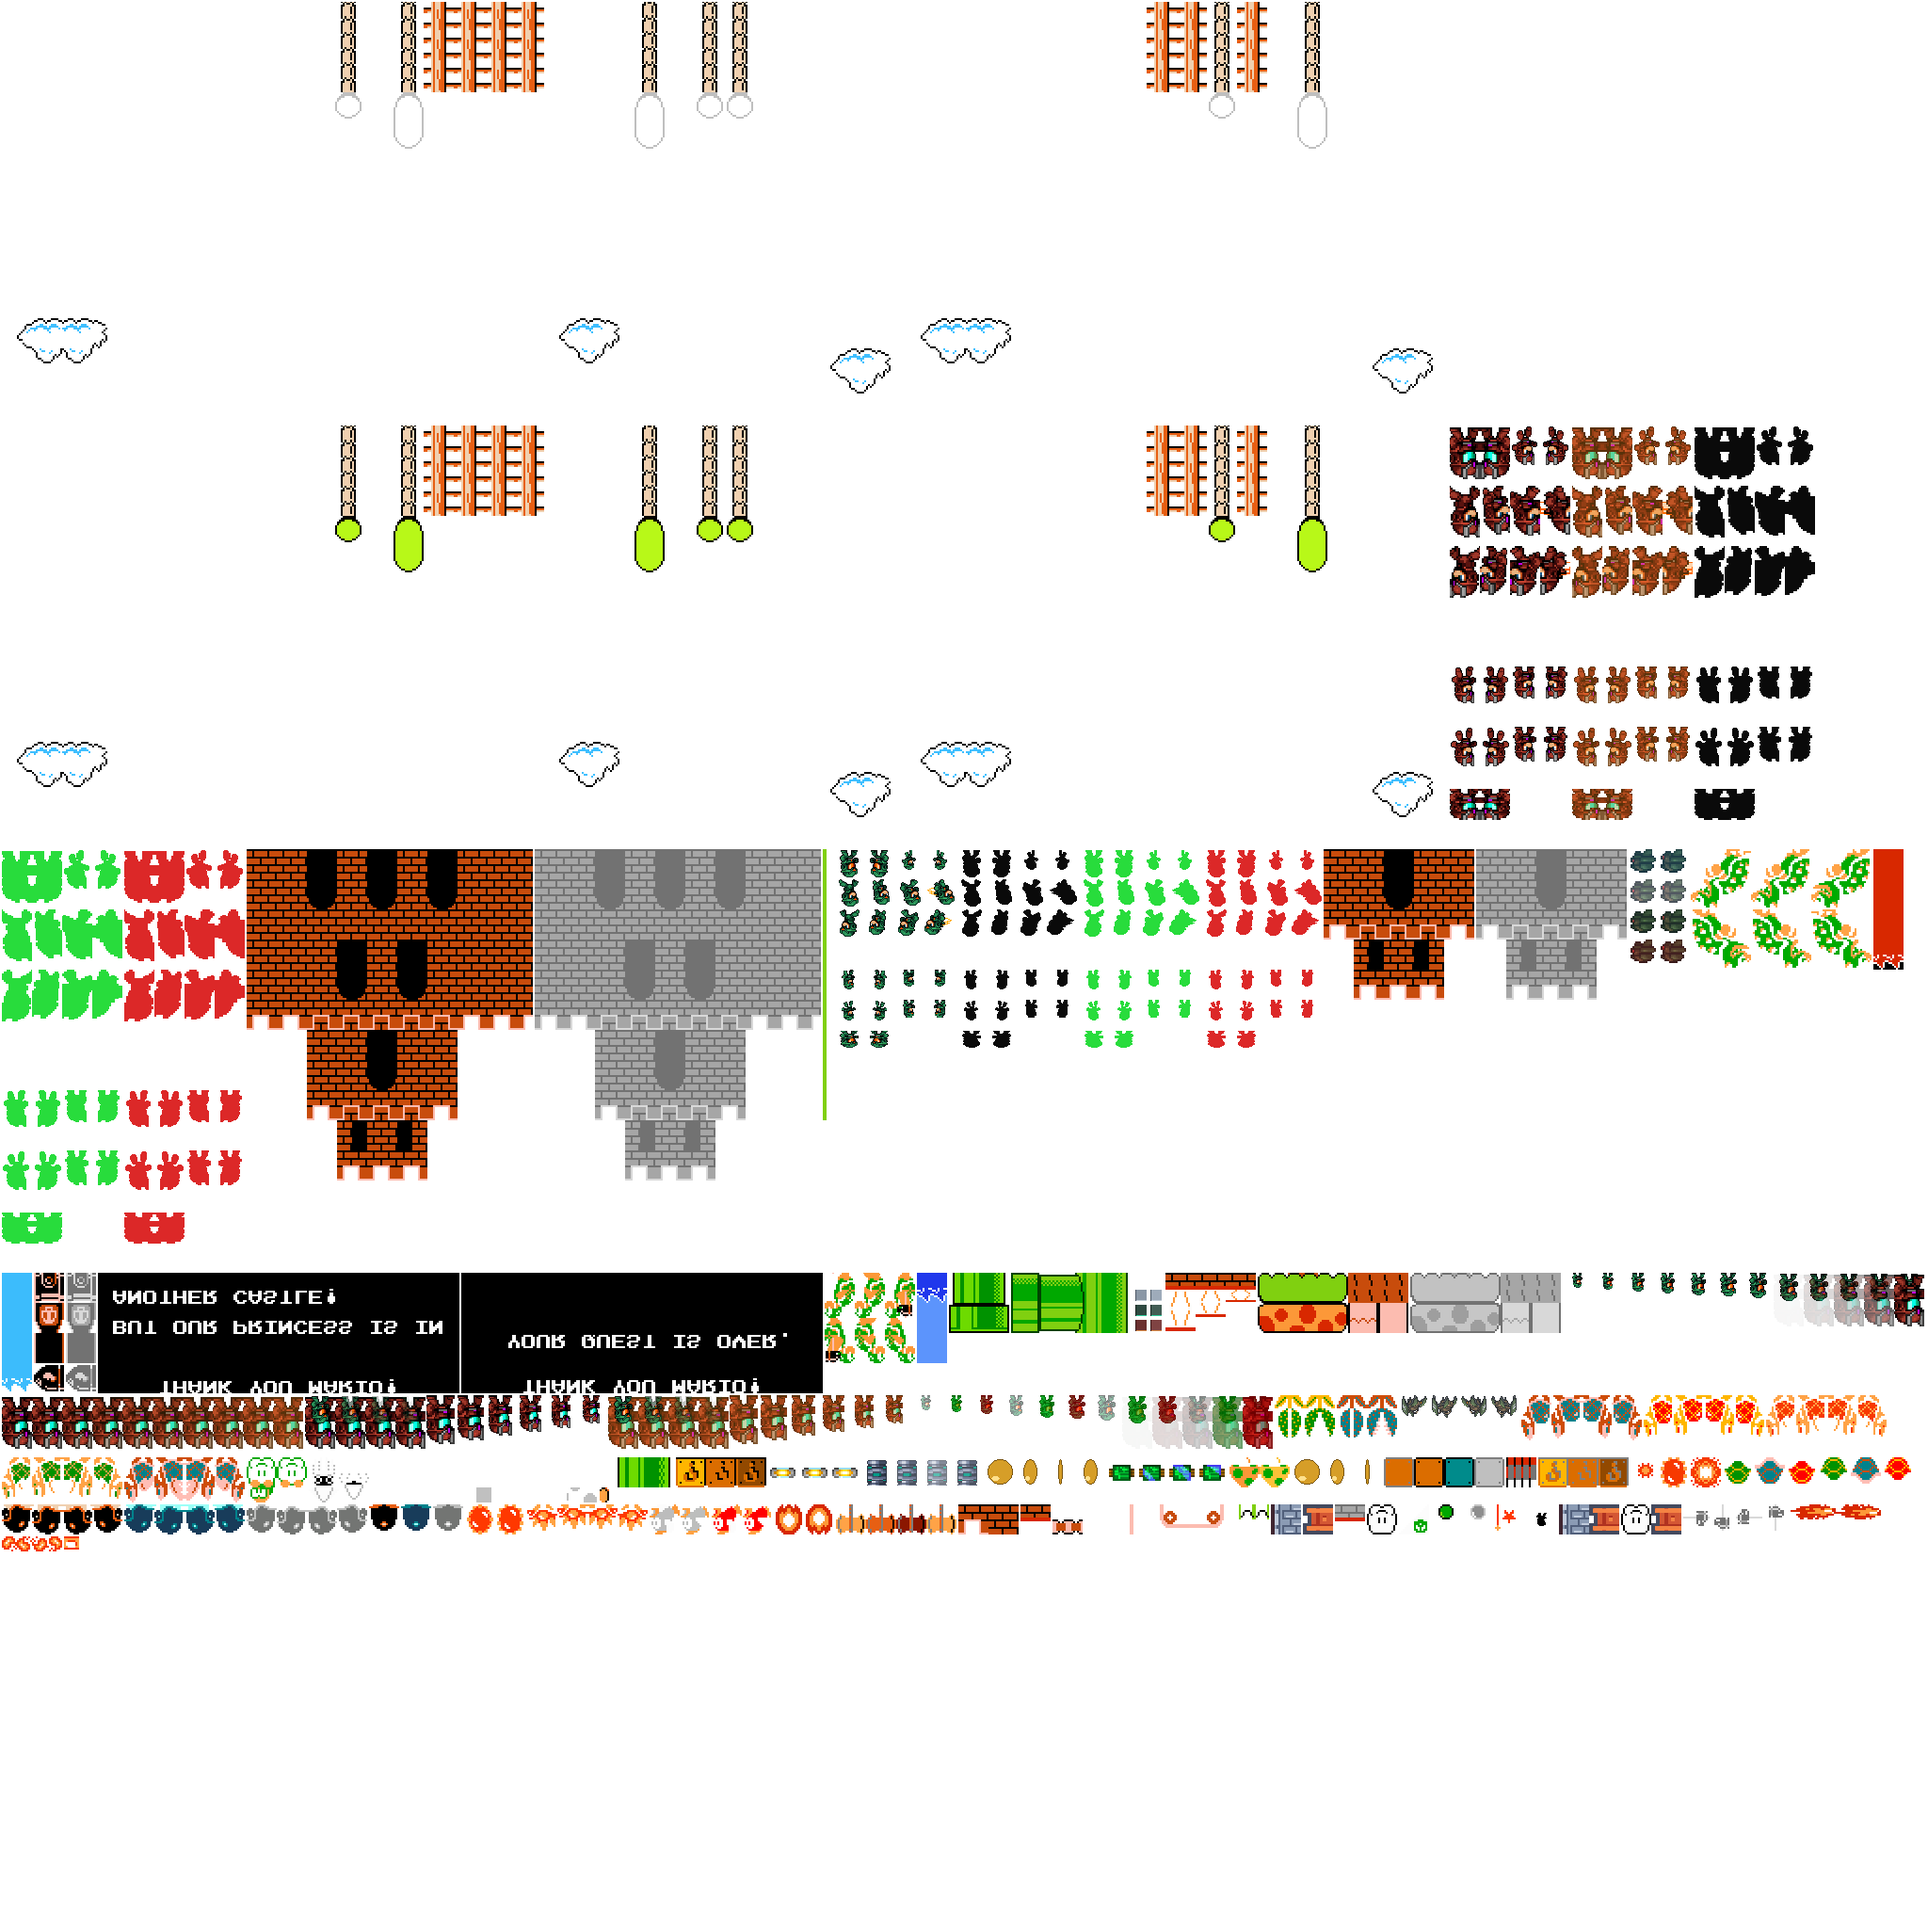
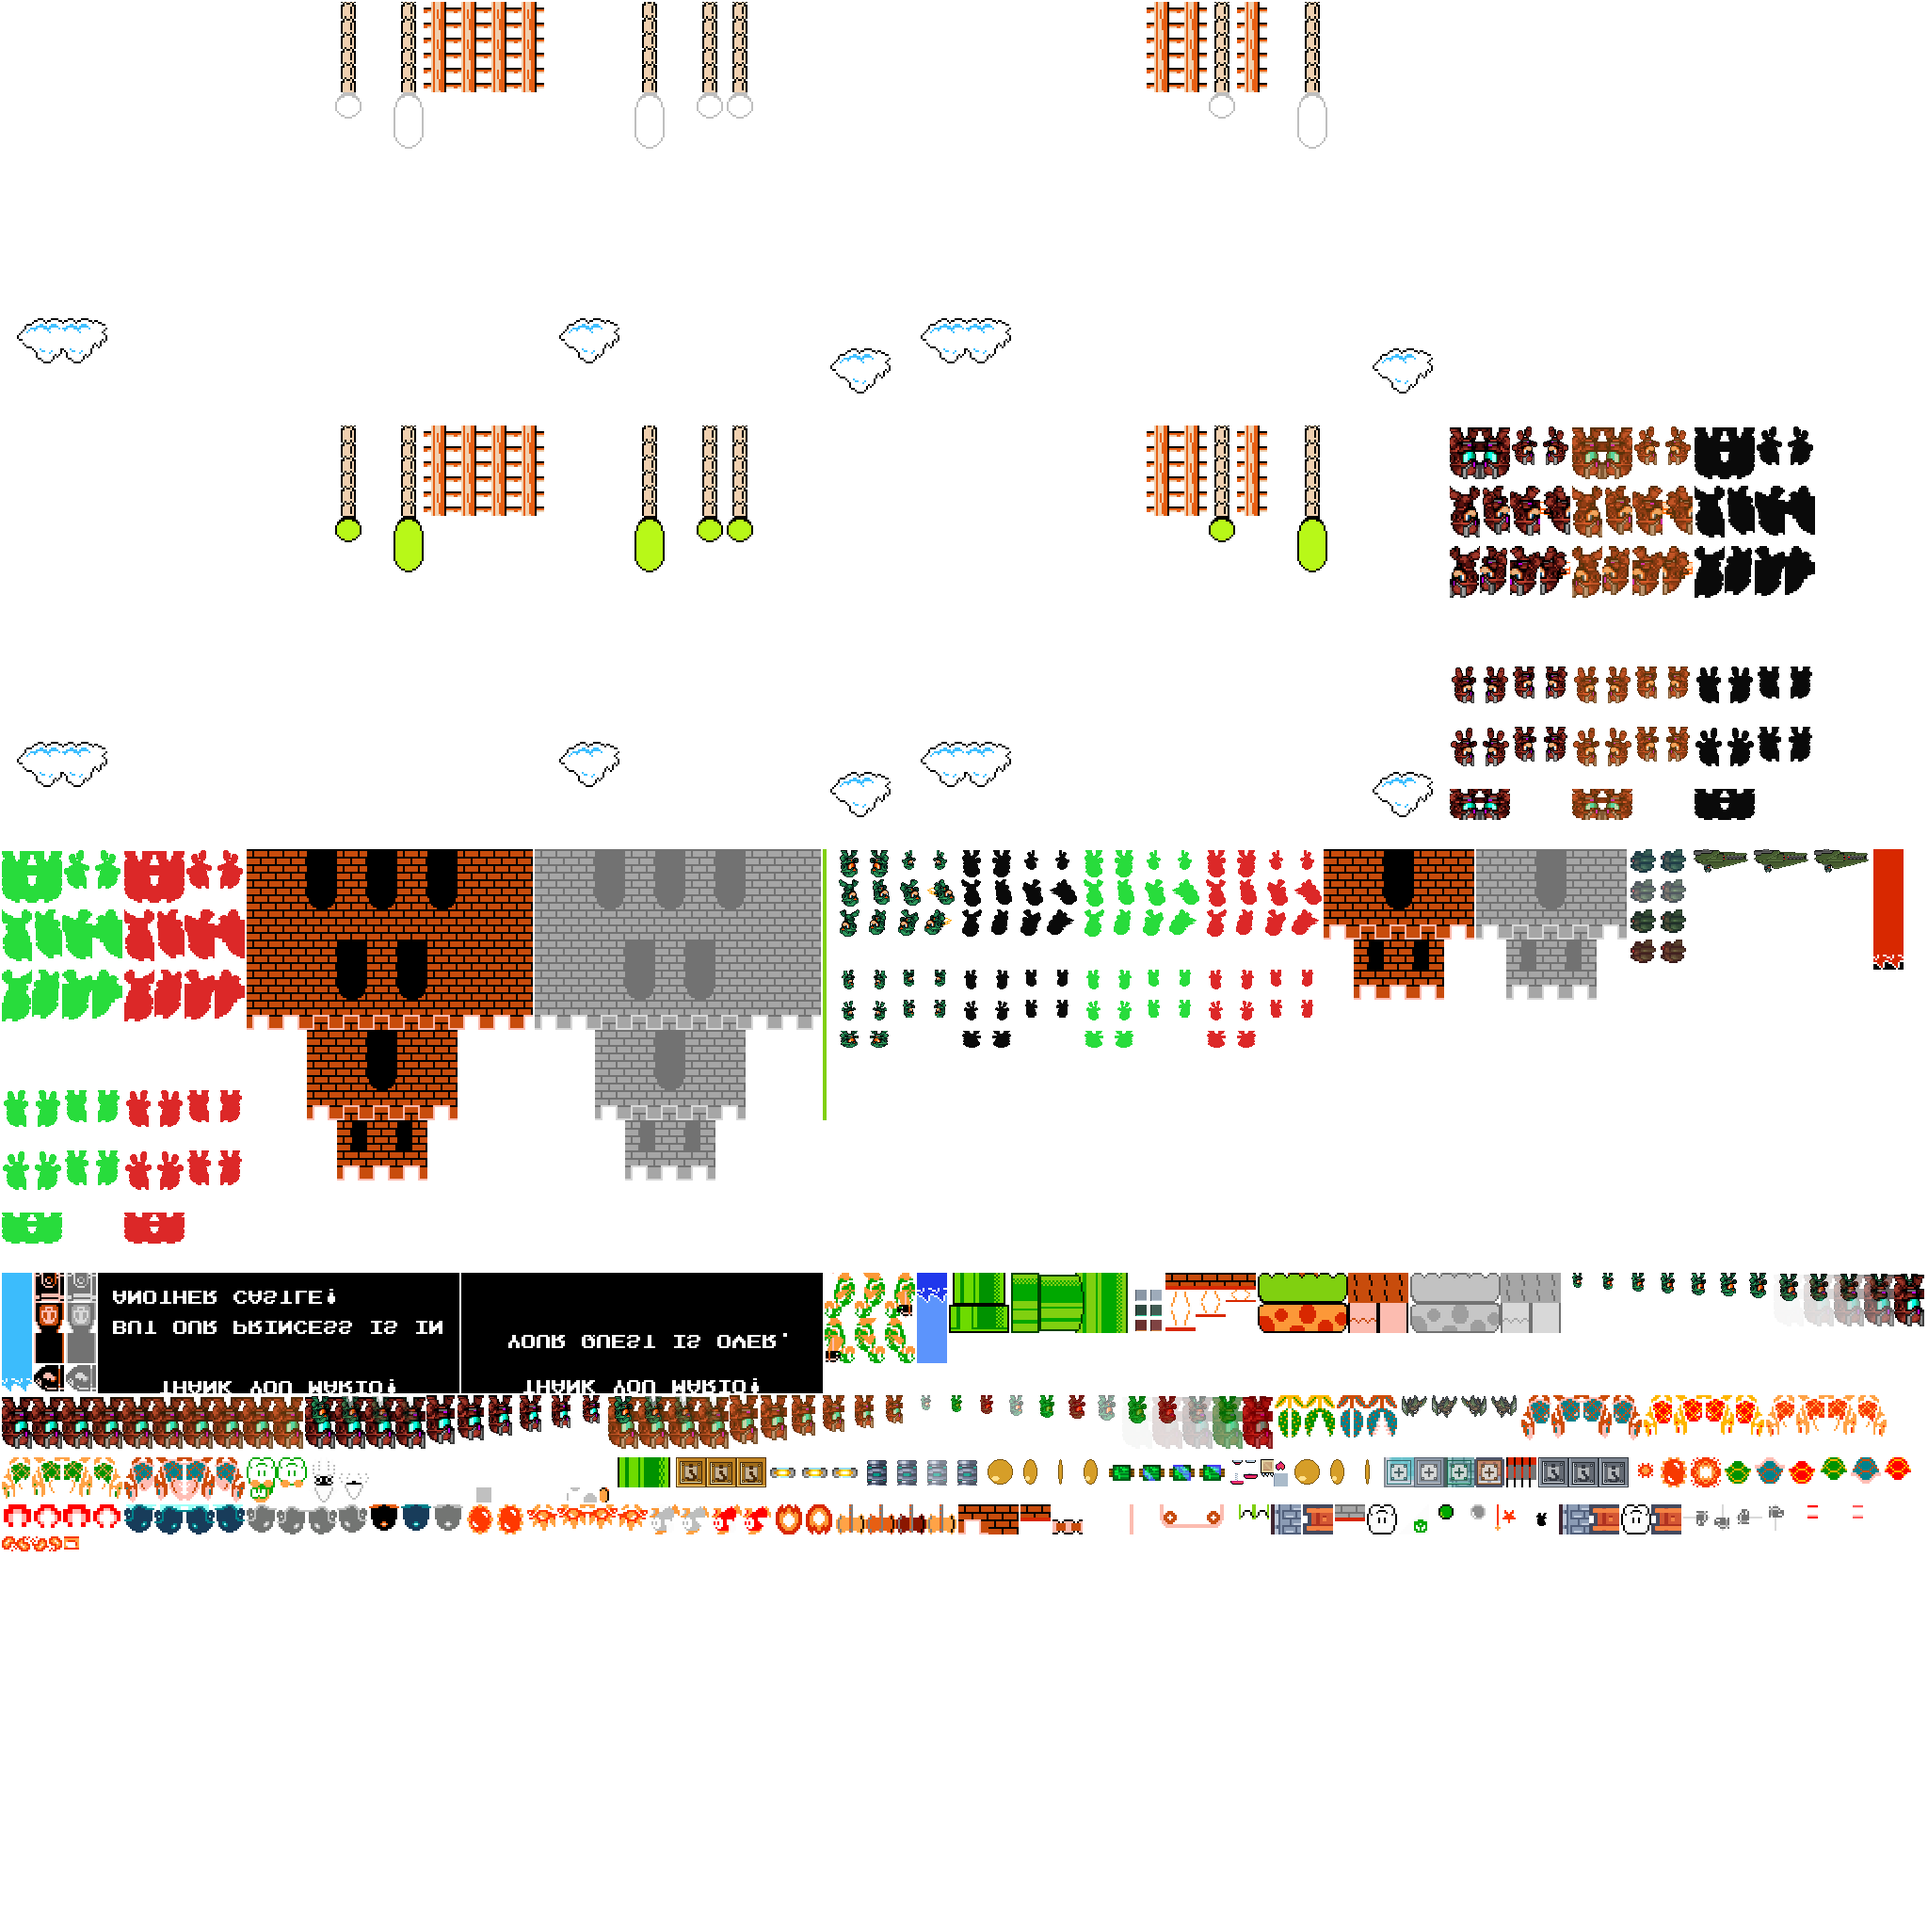
reskin 1

diff --git a/docs/assets/mario-sprites/ampere-staging/build_r4_phase3.py b/docs/assets/mario-sprites/ampere-staging/build_r4_phase3.py
@@ -1,0 +1,131 @@
+"""
+Step R.4 Phase 3.
+
+Covers:
+- Task 3: Helmet + HelmetShell (Plater family).
+- Task 4: Boss + BossFire (The Warden).
+- Task 5: 1UP (Spare chassis fallback from Robot Platform Pack).
+"""
+from PIL import Image
+import os
+import sys
+
+sys.path.insert(0, "C:/workspace/morsecode/docs/assets/mario-sprites/ampere-staging")
+from sprite_tools import verified_crop, place_content, tint, mirror, glow_pulse, build_sheet
+
+PACK = "C:/workspace/robot_series_base_pack"
+PLATFORM_PACK = "C:/workspace/Robot_Platform_Pack"
+OUT = "C:/workspace/morsecode/docs/assets/mario-sprites/reskin-source"
+
+HELMET_TINTS = {
+    "helmet": None,
+    "helmet_dark": ((70, 86, 100), 0.38),
+    "helmet_white": ((220, 230, 240), 0.28),
+}
+
+
+def build_helmet():
+    source = Image.open(f"{PACK}/enemy3/enemy3all.png").convert("RGBA")
+    cell = 32
+    row = 2
+
+    right_raw = [
+        verified_crop(source, (cell * i, cell * row, cell * (i + 1), cell * (row + 1)), f"helmet_walk{i}")
+        for i in (1, 2)
+    ]
+    right_frames = [place_content(frame, cell, cell, fill=0.9, anchor="bottom") for frame in right_raw]
+    left_frames = [mirror(frame) for frame in right_frames]
+
+    frames = [left_frames[0], left_frames[1], right_frames[0], right_frames[1]]
+
+    for name, tint_info in HELMET_TINTS.items():
+        if tint_info is None:
+            themed = frames
+        else:
+            color, strength = tint_info
+            themed = [tint(frame, color, strength) for frame in frames]
+        build_sheet(cell, cell, themed, 4, 1, f"{OUT}/{name}.png")
+
+    shell_base = place_content(right_raw[0], cell, cell, fill=0.8, anchor="bottom")
+    for name, tint_info in HELMET_TINTS.items():
+        if name == "helmet":
+            target = "helmet_shell"
+        elif name == "helmet_dark":
+            target = "helmet_shell_dark"
+        else:
+            target = "helmet_shell_white"
+        if tint_info is None:
+            shell_frame = shell_base
+        else:
+            color, strength = tint_info
+            shell_frame = tint(shell_base, color, strength)
+        shell_frame.save(f"{OUT}/{target}.png")
+        print("wrote", f"{OUT}/{target}.png")
+
+
+def build_boss():
+    source = Image.open(f"{PACK}/miniboss1/miniboss1_base[80height144wide].png").convert("RGBA")
+    frame_w, frame_h = 144, 80
+
+    raw = [
+        verified_crop(source, (frame_w * i, 0, frame_w * (i + 1), frame_h), f"boss_base{i}")
+        for i in (0, 1, 2)
+    ]
+
+    right_idle0 = place_content(raw[0], 64, 64, fill=0.9, anchor="bottom")
+    right_idle1 = place_content(raw[1], 64, 64, fill=0.9, anchor="bottom")
+    right_fire = place_content(raw[2], 64, 64, fill=0.9, anchor="bottom")
+
+    left_idle0 = mirror(right_idle0)
+    left_idle1 = mirror(right_idle1)
+    left_fire = mirror(right_fire)
+
+    frames = [
+        left_idle0,
+        left_idle1,
+        left_fire,
+        right_idle0,
+        right_idle0,
+        right_idle1,
+    ]
+    build_sheet(64, 64, frames, 3, 2, f"{OUT}/Boss.png")
+
+
+def build_boss_fire():
+    base = Image.open(f"{PACK}/miniboss1/miniboss1_laser.png").convert("RGBA")
+    base_frame = place_content(base, 48, 16, fill=0.9, anchor="center")
+    frames = [base_frame, glow_pulse(base_frame, 0.35)]
+    build_sheet(48, 16, frames, 2, 1, f"{OUT}/BossFire.png")
+
+
+def build_one_up():
+    sheet = Image.open(f"{PLATFORM_PACK}/Tileset&Items.png").convert("RGBA")
+    cell = 32
+    cols, rows = sheet.width // cell, sheet.height // cell
+    candidates = []
+    for row in range(rows):
+        for col in range(cols):
+            crop = sheet.crop((col * cell, row * cell, (col + 1) * cell, (row + 1) * cell))
+            pixels = list(crop.getdata())
+            red = sum(1 for r, g, b, a in pixels if a > 0 and r > 200 and g < 100 and b < 100)
+            alpha = sum(1 for _, _, _, a in pixels if a > 0)
+            if red > 20:
+                candidates.append((red, alpha, col, row, crop))
+    candidates.sort(reverse=True)
+    if len(candidates) < 2:
+        raise ValueError("Unable to locate two red-heart cells in Tileset&Items.png")
+
+    frames = []
+    for red, alpha, col, row, crop in candidates[:2]:
+        print(f"picked heart cell col={col} row={row} redPixels={red} alphaPixels={alpha}")
+        frame = place_content(crop, 32, 32, fill=0.9, anchor="center")
+        frames.append(frame)
+    build_sheet(32, 32, frames, 2, 1, f"{OUT}/1UP.png")
+
+
+if __name__ == "__main__":
+    os.makedirs(OUT, exist_ok=True)
+    build_helmet()
+    build_boss()
+    build_boss_fire()
+    build_one_up()

diff --git a/docs/mario/MARIO_RESKIN_EXECUTION.md b/docs/mario/MARIO_RESKIN_EXECUTION.md
@@ -547,7 +547,7 @@ closes.
       a bug report. Packed (39/122 overlay) and compiled clean; **not yet on-device
       verified.**
 
-      **2026-09-09: Phase 2 tasks 1-2 done** (`docs/assets/mario-sprites/ampere-staging/build_r4_phase2.py`)
+      **2026-09-10: Phase 2 tasks 1-2 done** (`docs/assets/mario-sprites/ampere-staging/build_r4_phase2.py`)
       — `Iron.png` rebuilt as a 4×1, 32×32-per-frame strip in the exact order
       `Iron.java` expects: Sea, Ground, UnderGround, Castle (confirmed by reading that
       class's own `frameFor()` mapping first, not assuming the row order from any other
@@ -564,29 +564,16 @@ closes.
       UnderGround/Castle. Each frame deliberately changes slightly (panel lift/highlight
       pulse + the glyph rising upward) so the bob loop is readable as animation, not three
       identical copies. Generated to `docs/assets/mario-sprites/reskin-source/Iron.png`,
-      `QuestionMark.png`, and `QuestionMarkGrey.png`; **not yet packed or on-device
-      verified.**
+      `QuestionMark.png`, and `QuestionMarkGrey.png`; **packed clean, compile and on-device
+      verification still pending.**
 
-      **2026-09-09: Task 3 Plater / Helmet — BLOCKED, not implemented.**
-      Re-read the latest junior guide, the source index, `Helmet.java`,
-      `HelmetShell.java`, the packer's AssetSpecs/overlay loader, `pack.sh`, and
-      `sprite_tools.py`. Confirmed the exact targets below, all relative to
-      `docs/assets/mario-sprites/reskin-source/`:
-
-      | Region | Exact output path | Sheet size | Pose contract |
-      |---|---|---|---|
-      | `helmet` | `Helmet.png` | 128×32 | 0–1 left walk pair; 2–3 right walk pair |
-      | `helmet_dark` | `Helmetdark.png` | 128×32 | Same walk contract, dark palette |
-      | `helmet_white` | `Helmetwhite.png` | 128×32 | Same walk contract, white palette |
-      | `helmet_shell` | `HelmetShell.png` | 32×32 | Single retracted pose |
-      | `helmet_shell_dark` | `HelmetShelldark.png` | 32×32 | Same retracted pose, dark palette |
-      | `helmet_shell_white` | `HelmetShellwhite.png` | 32×32 | Same retracted pose, white palette |
-
-      Both actors pass `tileSize, tileSize` to `super`; Helmet selects
-      `(movingRight ? 2 : 0) + (showingFirstFrame ? 0 : 1)`. HelmetShell has no
-      directional/animation frame selection: stationary and kicked states share its
-      single frame, and projectile defeat extracts `[0][0]` at tile size × ART_SCALE.
-      No actor, gameplay, or ART_SCALE changes were made.
+      **2026-09-10: Phase 3 tasks 3-5 done** (`docs/assets/mario-sprites/ampere-staging/build_r4_phase3.py`)
+      — Helmet/Plater family (`helmet*` + `helmet_shell*`) generated from Robot Master
+      Series `enemy3all.png`, The Warden (`Boss.png`) from `miniboss1_base`, `BossFire.png`
+      from `miniboss1_laser.png`, and `1UP.png` auto-selected from the Robot Platform Pack
+      tileset by red-pixel detection. Packed successfully: **46 / 122 assets** now sourced
+      from the reskin overlay. `./gradlew :app:compileDebugJavaWithJavac` passes; on-device
+      verification still pending.
 
       **Blockers:** the IDE file-discovery tool denied access to
       `C:/workspace/robot_series_base_pack/enemy3` under AI exclude policies. Its
